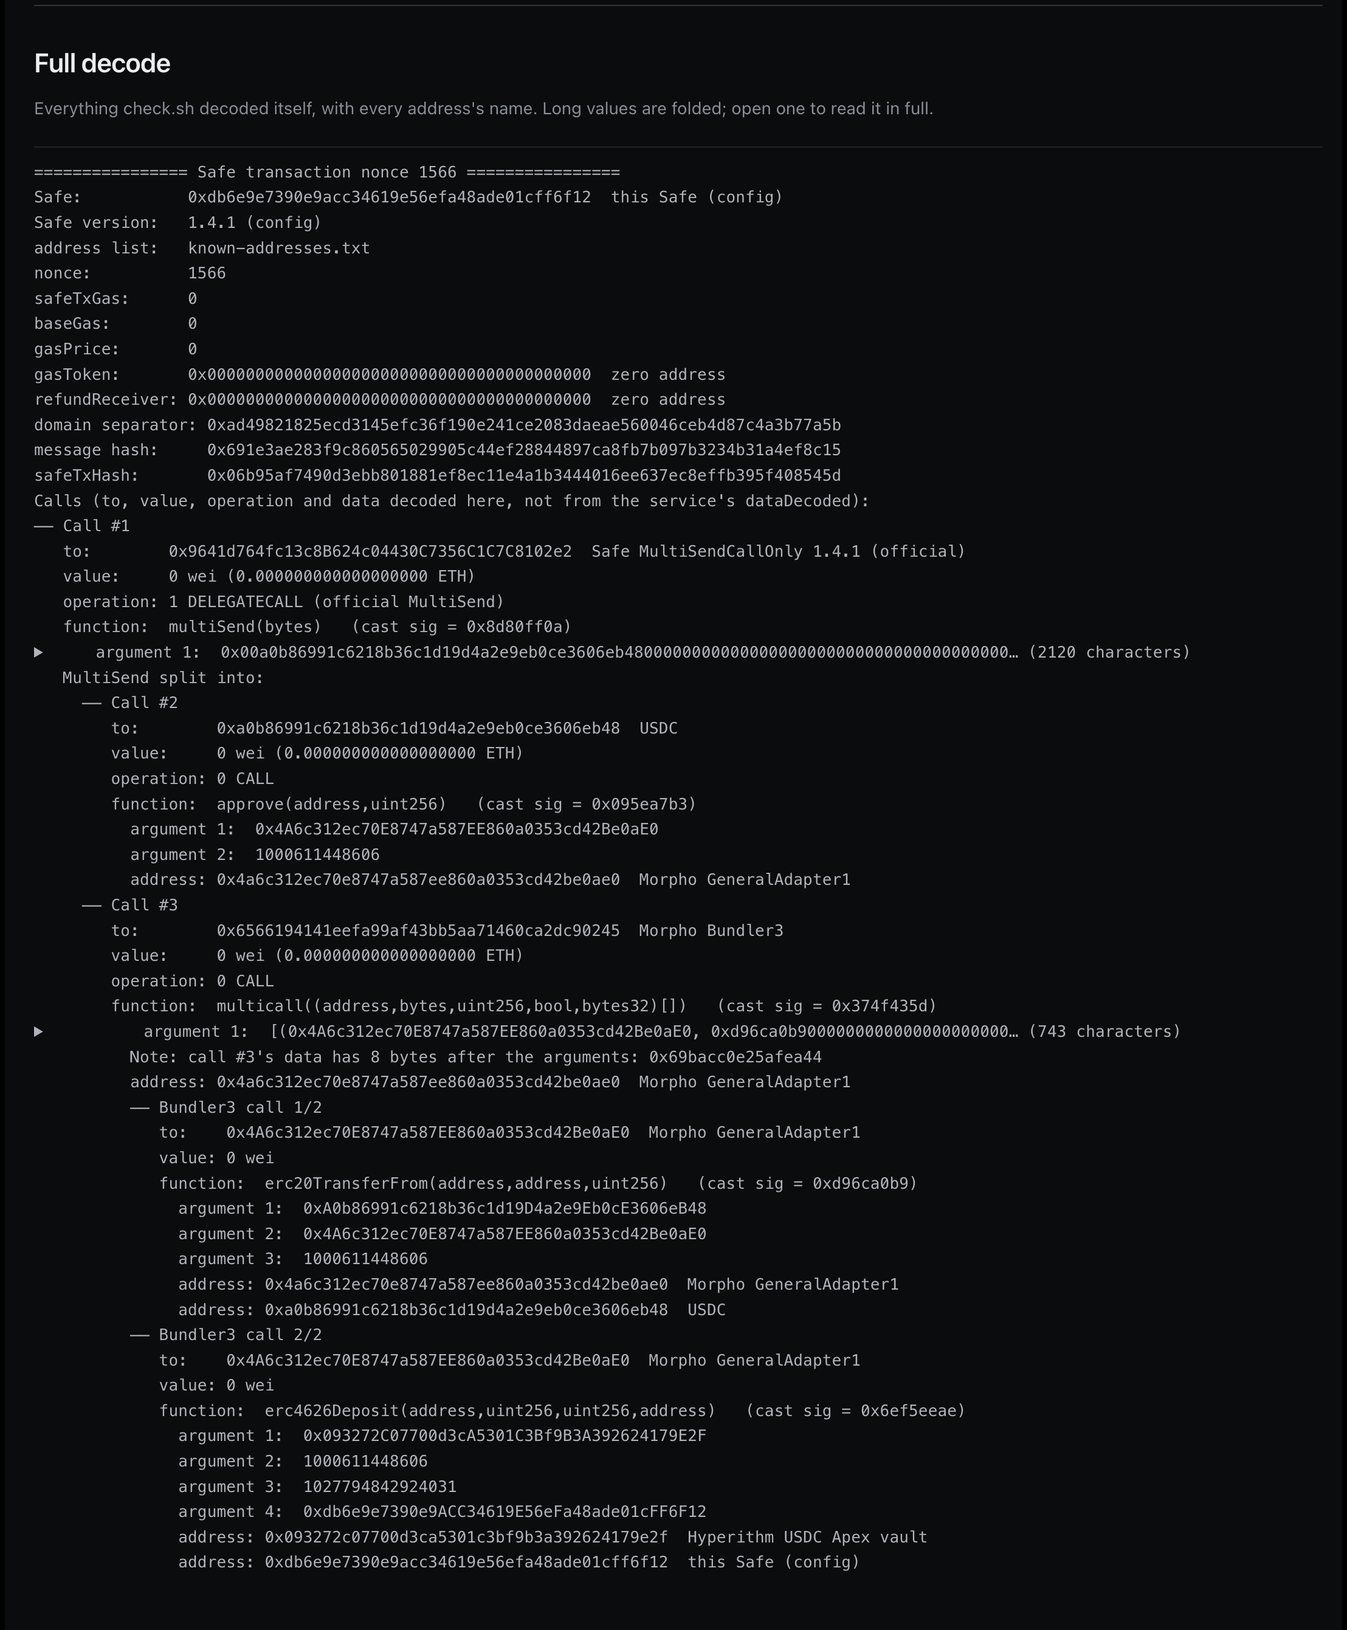
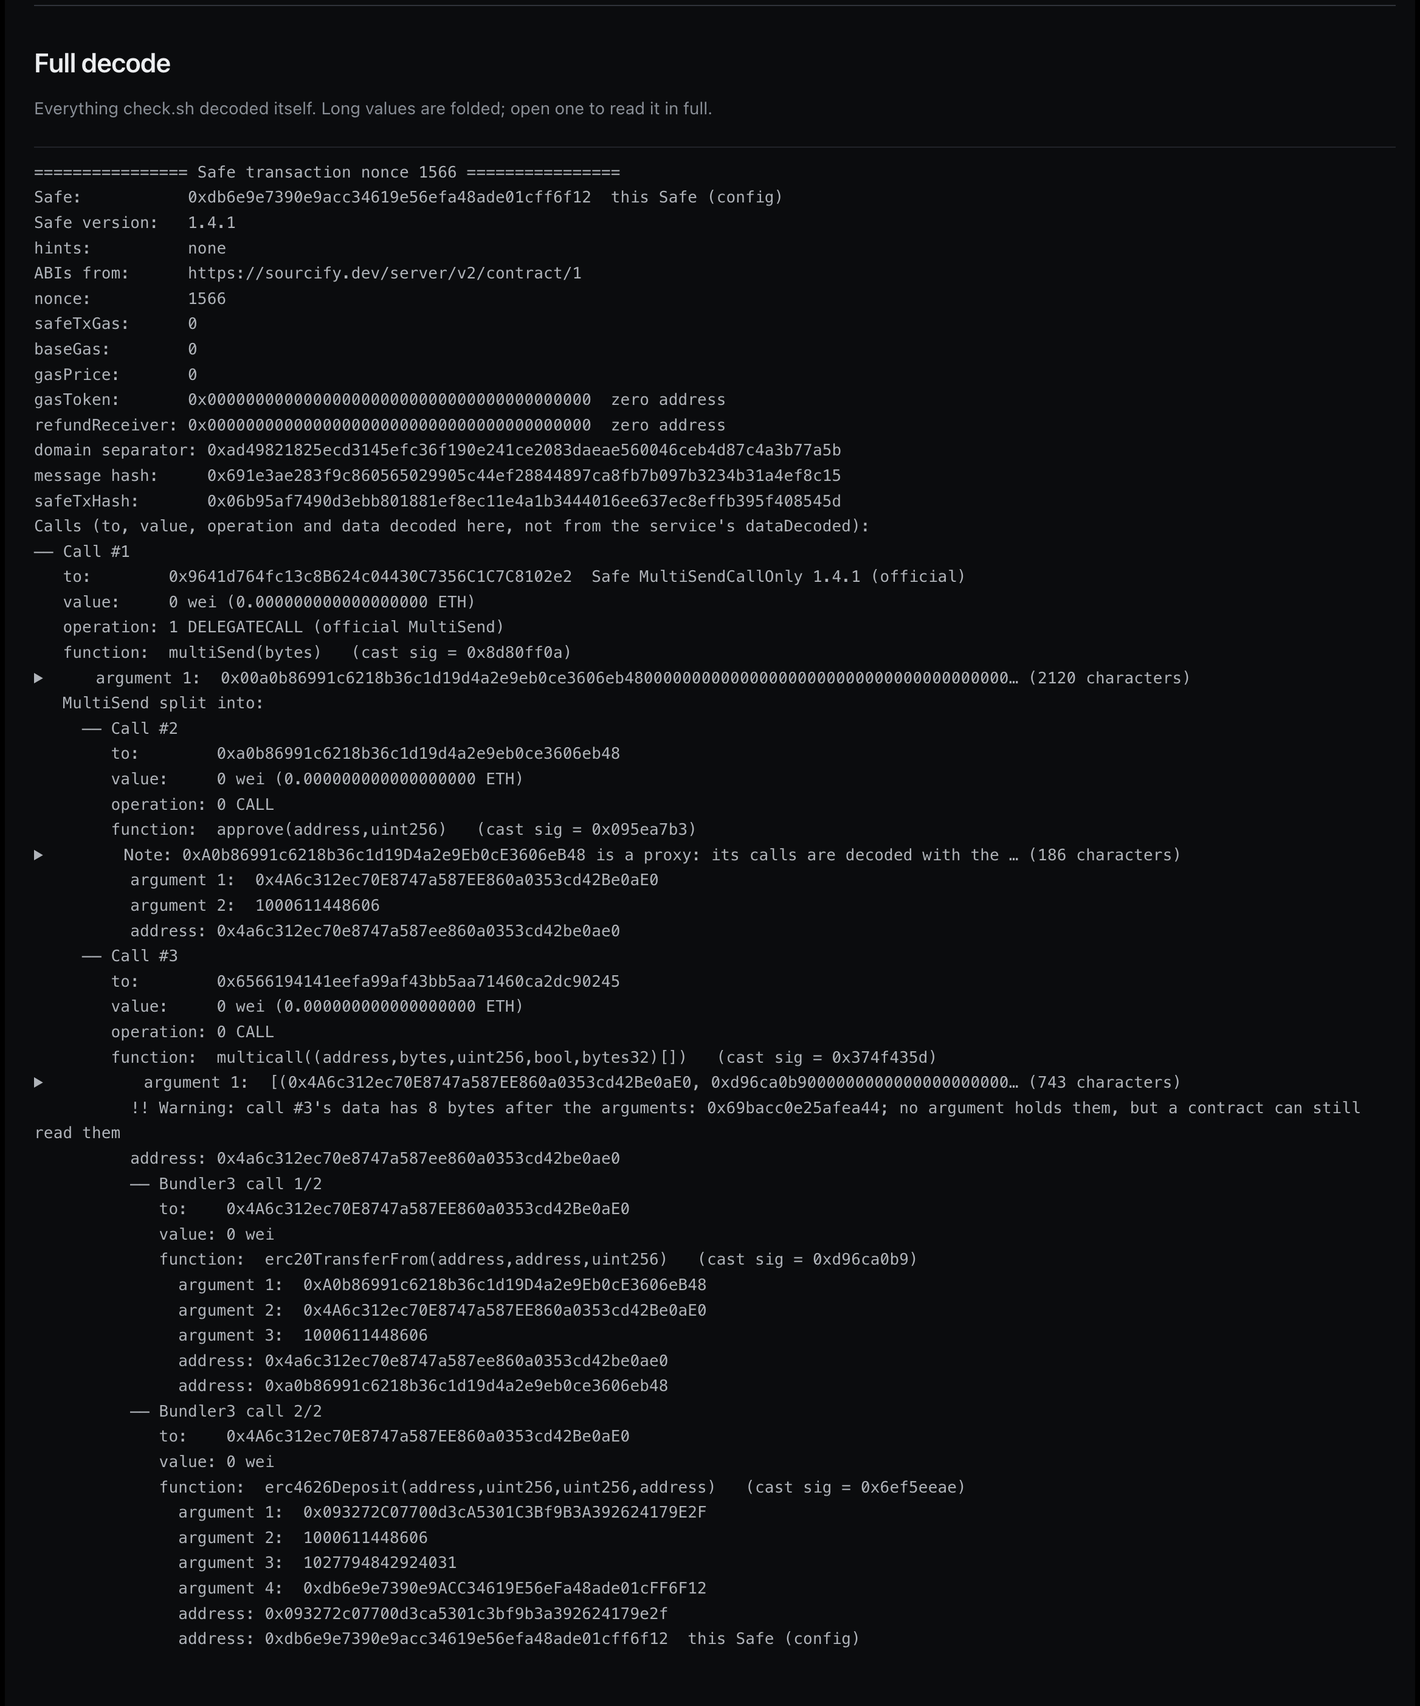
Fix the docs both reviews flagged, re-shoot the full decode, shorten Contributing and Disclaimer
check.sh's full-decode lead no longer promises every address's name.

Claude-Session: https://claude.ai/code/session_019EpkRikTD1KbjKp9L1wtSS

Changed region(s): [[0.0311, 0.0309, 0.8718, 0.9594], [0.7784, 0.3714, 0.8407, 0.4023], [0.6227, 0.8665, 0.685, 0.8975]]

diff --git a/docs/details.md b/docs/details.md
@@ -8,13 +8,13 @@ Set `LANGUAGE` to the language your kiss-sign uses, the one its `init` recorded:
 
 A wrong `SAFE_VERSION` can give a hash that does not match your wallet, and a matching hash does not prove the version is right: versions 1.3.0 to 1.5.0 hash the same way, as do 1.1.0 to 1.2.0.
 
-`CHECK_CONFIG` can name another config. `config` and `out/` are ignored by git and stay on this computer.
+`CHECK_CONFIG` can name another config, and `CHECK_OUT` another folder for the pages than `out/`. `config` and `out/` are ignored by git and stay on this computer.
 
 ## Running it
 
 The command carries `--hints` when the template reads `bytes` no ABI describes; see [hints.md](hints.md).
 
-It fetches the transactions at that nonce from `api.safe.global`, and the ABI of each contract a call goes to from `sourcify.dev`, both mainnet only and with no API key. Those are its only network requests. `./check.sh --file <tx.json>` reads the transactions from a file instead, and refuses a file whose transactions do not all share one nonce; it still asks Sourcify for the ABIs. Sourcify thus learns which contracts your pending transaction calls. If Sourcify does not answer, or answers with anything but the contract's ABI or "not verified", `check.sh` stops and writes no page; run it again later. The terminal prints a summary (here run with `CHECK_OUT=out`, so the page path is short):
+It fetches the transactions at that nonce from `api.safe.global`, and the ABI of each contract a call goes to from `sourcify.dev`, both mainnet only and with no API key. Those are its only network requests. `./check.sh --file <tx.json>` reads the transactions from a file instead, and refuses a file whose transactions do not all share one nonce. It refuses any transaction of a Safe other than the one in `config`, and, from the service, an answer that runs to a second page or holds another nonce; it still asks Sourcify for the ABIs. Sourcify thus learns which contracts your pending transaction calls. If Sourcify does not answer, or answers with anything but the contract's ABI or "not verified", `check.sh` stops and writes no page; run it again later. The terminal prints a summary (here run with `CHECK_OUT=out`, so the page path is short):
 
 ![The terminal after ./check.sh 1566: the safeTxHash, 3 calls from the Safe, a note that USDC is a proxy whose calls are decoded with the ABI of the implementation Sourcify reports, a warning that call #3 has 8 bytes after its arguments, which no argument holds but a contract can still read, and the path of the page](readme/terminal.png)
 
@@ -23,7 +23,7 @@ It fetches the transactions at that nonce from `api.safe.global`, and the ABI of
 
 The page also holds the full decode, with every call and every argument:
 
-![The check.sh page's full decode of nonce 1566: the Safe's DELEGATECALL into the official MultiSend, the USDC approve to Morpho GeneralAdapter1, and the Bundler3 multicall with its two calls, erc20TransferFrom and erc4626Deposit into the Hyperithm USDC Apex vault](readme/decode.png)
+![The check.sh page's full decode of nonce 1566: the Safe's DELEGATECALL into the official MultiSend, an approve on 0xA0b86991c6218b36c1d19D4a2e9Eb0cE3606eB48 for 0x4A6c312ec70E8747a587EE860a0353cd42Be0aE0, and a Bundler3 multicall with its two calls, erc20TransferFrom and erc4626Deposit into 0x093272C07700d3cA5301C3Bf9B3A392624179E2F; only the Safe, the zero address and the official MultiSend are named](readme/decode.png)
 
 If several transactions share the nonce, the summary and the page show each one with its hash. Sign only the one whose hashes your wallet shows.
 
@@ -40,18 +40,20 @@ Sourcify is trusted only to help you read. Each call's `function` row in the com
 ## What it checks
 
 - **The hash, computed locally.** The safeTxHash comes from the same `to`, `value`, `data`, `operation` and gas fields the decode prints. The service's own hash is used only to warn when it differs.
-- **Every call.** Each call inside a MultiSend, each call of a Bundler3 `multicall` with its target and value, each call of `multicall(bytes[])`, `submit(bytes)` and `revoke(bytes)`, and the bundle Morpho calls back with from `morphoSupplyCollateral`. A MultiSend is split into the Safe's calls only when the Safe itself DELEGATECALLs an official MultiSend, and the list must split exactly.
+- **Every call.** Each call inside a MultiSend, each call of a Bundler3 `multicall` with its target and value, each call of `multicall(bytes[])`, `submit(bytes)` and `revoke(bytes)`, and the bundle Morpho calls back with from `morphoSupplyCollateral`. A MultiSend is split into the Safe's calls only when the Safe itself DELEGATECALLs an official MultiSend; a list that does not split exactly stops the split with a warning.
 - **The decode is exact.** The decoded arguments are encoded again and compared with the data. Any difference is a warning, bytes after the arguments included: no argument holds them, but a contract can still read them. The Morpho and Uniswap apps append such a tag to their calls, so their transactions carry this warning; kiss-sign's template states how many bytes it allows.
 - **Addresses are shown, not judged.** It names only the official MultiSend addresses, built in, the Safe in your `config` and the zero address. Whether any other address is the protocol's real one is kiss-sign's check, not this one.
 - **Warnings for what usually means trouble:**
   - non-zero `safeTxGas`, `baseGas`, `gasPrice`, `gasToken` or `refundReceiver`;
   - a DELEGATECALL other than the Safe's own call into an official MultiSend, or a plain CALL into an official MultiSend;
   - a zero `to` inside a MultiSend;
+  - a `multiSend` it does not split, and a MultiSend list with leftover bytes, a bad operation byte or a length that runs past the data;
+  - a function whose data cannot be decoded, or does not encode back to the same bytes;
   - a contract Sourcify has not verified, a function its ABI lacks, or a `bytes` argument or part it cannot decode, bytes it shows as a hint reads them, a hint that does not fit, and a hint it does not use;
   - a `bytes` value of exactly 20 bytes, shown also as the address it may be, or of exactly 32 bytes, shown also as the address it may be when its first 12 bytes are zero;
   - bytes after a call's arguments;
   - ETH sent along with a call that has data, from the Safe or a MultiSend (a Bundler3 call's value is shown, not warned on);
-  - a Safe admin function anywhere, such as adding an owner;
+  - a Safe admin function anywhere, from a fixed list, such as adding an owner;
   - several transactions at one nonce;
   - a service hash that differs or is malformed.
 - **Text from outside cannot run or hide on the page.** Every value reaches the page through `jq`'s `@html`, and control, bidi and zero-width characters become U+FFFD. The terminal has its control characters removed (C0 except tab and newline, and DEL). At start it checks that `cast` and `jq` behave as it expects, and refuses to run otherwise.
@@ -75,9 +77,9 @@ Sourcify is trusted only to help you read. Each call's `function` row in the com
 
 - every real case reproduces its recorded on-chain safeTxHash;
 - the comparison lists of seven transactions, in each language, equal [`test/expected/en/`](../test/expected/en/) and [`test/expected/zh-TW/`](../test/expected/zh-TW/), which kiss-sign's own tests also pin: a Bundler3 deposit, an ETH transfer, a Merkl claim, a CoW order, a Uniswap swap with its approvals, a Vault V2 cap submission and a reallocation;
-- each runs with the `--hints` kiss-sign prints for it, kept in [`test/expected/hints/`](../test/expected/hints/) and pinned by kiss-sign's tests too, and the full decode of the five cases hints read is as expected;
-- the comparison list is the same with kiss-sign's hints, with hostile hints that fit and that do not, and with none;
-- bytes a hint reads always keep a warning, a hint that does not fit or names nothing says why, and malformed hints are refused before anything runs;
+- each runs with the `--hints` kiss-sign prints for it, kept in [`test/expected/hints/`](../test/expected/hints/) and pinned by kiss-sign's tests too (empty where kiss-sign prints none), and the full decode of the five cases hints read is as expected (the crafted cap-id case's hints are in `test/run.sh`);
+- for selected cases, the comparison list is the same with kiss-sign's hints, with hostile hints that fit and that do not, and with none;
+- bytes a hint reads always keep a warning, a hint that does not fit or names nothing says why, and malformed hints are refused before the transaction is decoded;
 - hostile text in the service's fields is never shown as markup, and its bidi and control characters are replaced.
 
 The tests read no network. [`test/sourcify/`](../test/sourcify/) holds Sourcify's answer for every contract `check.sh` asks about while it decodes the fixtures, named `<address>.<HTTP status>.json`, and `CHECK_SOURCIFY_DIR` makes `check.sh` read them instead of asking Sourcify. `/bin/bash test/record-sourcify.sh` records them again, by running `check.sh` on every fixture with `CHECK_SOURCIFY_SAVE`, which saves each answer it gets.

diff --git a/docs/hints.md b/docs/hints.md
@@ -10,15 +10,15 @@ The hints are one argument: `v1`, then one entry per `bytes` value, each after o
 v1 C4-a2.1=abi(bytes,bytes[]) C4-a2.1.2.1=abi((address,(address,uint24,int24,address,bytes)[],uint256[],uint128,uint128)) C4-a2.1.2.2=abi(address,uint256,bool) C4-a2.1.2.3=abi(address,address,uint256)
 ```
 
-`C4-a2.1` is the router's first input, a `V4_SWAP`, and `C4-a2.1.2.1` to `.3` are its swap, settle and take. The hints hold only positions and types: no names, text, addresses, URLs or file paths. `check.sh` refuses, before it decodes anything or writes a page, hints in any other shape, such as another version, a character other than letters, digits, space, `()[],.=-`, an empty or unknown type, a `packed` type that is not fixed-size, or a path given twice.
+`C4-a2.1` is the router's first input, a `V4_SWAP`, and `C4-a2.1.2.1` to `.3` are its swap, settle and take. The hints hold only positions and types: no names, text, addresses, URLs or file paths. `check.sh` refuses, before it decodes the transaction or writes a page, hints in any other shape, such as another version, a character other than letters, digits, space, `()[],.=-`, an empty or unknown type, a `packed` type that is not fixed-size, or a path given twice.
 
 The hints come from the work computer, the one this computer exists not to trust, so they can only help you read:
 
-- **No comparison-list row comes from a hint.** Every row is decoded from the transaction with Sourcify's ABI as without hints, and bytes a hint reads stay one row, folded with their keccak256. The tests run every pinned transaction with kiss-sign's hints, with hostile hints and with none, and require the same list.
+- **No comparison-list row comes from a hint.** Every row is decoded from the transaction with Sourcify's ABI as without hints, and bytes a hint reads stay inside their argument's row, folded with their keccak256 when longer than 32 bytes. The tests run every pinned transaction with kiss-sign's hints, with hostile hints and with none, and require the same list.
 - **A reading is shown only if it encodes back.** The parts, encoded again with `cast abi-encode` (or `--packed`), must give exactly the original bytes. Otherwise the bytes stay raw with their warning, and a second warning says why the hint did not fit.
-- **A reading that fits keeps a warning.** Any bytes whose length is a multiple of 32 also fit as that many `uint256`, which would show a hidden call or address as numbers, and a `packed` hint can cut an address into two parts. So bytes a hint reads always carry a warning, in place of the one that says they cannot be decoded, that they are shown as the hint reads them. A hint adds lines to the full decode; it never changes a row, and never leaves the bytes it reads without a warning. A `bytes` part no hint reads warns as before.
+- **A reading that fits keeps a warning.** Any bytes whose length is a multiple of 32 also fit as that many `uint256`, which would show a hidden call or address as numbers, and a `packed` hint can cut an address into two parts. So bytes a hint reads always carry a warning, in place of the one that says they cannot be decoded, that they are shown as the hint reads them. A part read inside them is covered by that same warning. A hint adds lines to the full decode; it never changes a row, and never leaves the bytes it reads without a warning. A `bytes` part no hint reads warns as before.
 - **A hint that names nothing is a warning.** An entry whose path holds no `bytes` in this transaction, or names bytes `check.sh` decodes as calls, is not used, and says so.
 
-Each of these warnings, like the one for bytes no hint reads, names the function and contract the bytes go to and where to read the contract's verified source.
+The warning that bytes are shown as a hint reads them, like the one for bytes no hint reads, names the function and contract the bytes go to and where to read the contract's verified source. A hint that does not fit leaves that second warning in place; a hint not used names only its path.
 
 So a wrong or hostile hint leaves the bytes raw with a warning, or shows a reading of them under a warning. The rows, the hashes and every other warning are what `check.sh` finds on its own. Read the parts against what you meant to do; a reading that fits is not a judgment.

diff --git a/README.md b/README.md
@@ -45,7 +45,7 @@ Open the page it writes and check three things.
 
 ![The hash rows of both pages side by side: safeTxHash, domain hash and message hash, the same on kiss-sign verify and on check.sh](docs/readme/compare-hashes.png)
 
-**2. The comparison list.** Every call, row by row, down to the calls inside a batch, must be the same as on kiss-sign's page. Only the name column on the right may differ: kiss-sign names addresses from its registry, `check.sh` names only your Safe, the official MultiSends and the zero address. If any other row differs, stop.
+**2. The comparison list.** Every call, row by row, down to the calls inside a batch, must be the same as on kiss-sign's page. Only the name column on the right may differ: kiss-sign names addresses from its registry, while `check.sh` names only your Safe, the official MultiSends and the zero address, and adds a few notes of its own. If any other row differs, stop.
 
 ![Some rows of call #3 on both pages side by side: the Bundler3 multicall, then its two inner calls, erc20TransferFrom of 1000611448606 and erc4626Deposit into vault 0x093272C07700d3cA5301C3Bf9B3A392624179E2F for the Safe, the same on both sides; only kiss-sign's side names the vault and the amounts in the last column](docs/readme/compare-multicall.png)
 
@@ -59,7 +59,7 @@ Some `bytes` hold data in a fixed shape that no ABI describes, such as a CoW ord
 ./check.sh 264 --hints 'v1 C1-a1=packed(bytes32,address,uint32)'
 ```
 
-This says: argument 1 of call `C1` is a `bytes32`, an `address` and a `uint32` packed together. `check.sh` splits the 56 bytes that way, checks the parts join back into exactly those bytes, and shows them under a warning:
+This says: argument 1 of call `C1` is a `bytes32`, an `address` and a `uint32` packed together. `check.sh` splits the 56 bytes that way, checks the parts join back into exactly those bytes, and shows them under a warning. An excerpt of the page's full decode:
 
 ```
 function:  setPreSignature(bytes,bool)
@@ -81,15 +81,11 @@ Here part 2 is the order's owner, your Safe, and part 3 its expiry time. A hint 
 
 ## Contributing
 
-Open an issue or a pull request. Keep `check.sh` short enough to read in one sitting, and keep it to `cast`, `curl` and `jq`. The details of how it works are in [`docs/`](docs/): [details.md](docs/details.md) for every setting, check and test, [hints.md](docs/hints.md) for the `--hints` format, and [checklist.md](docs/checklist.md) for the comparison list's rows. A change to the comparison list's format must change kiss-sign in step; see [docs/checklist.md](docs/checklist.md).
-
-Report security problems as an issue too.
+Issues, security problems included, and pull requests are welcome. Keep `check.sh` to `cast`, `curl` and `jq`, short enough to read in one sitting. How it works is in [`docs/`](docs/); a change to the comparison list must change kiss-sign too.
 
 ## Disclaimer
 
-`check.sh` is provided as is, without warranty of any kind. It can be wrong: a bug, a compromised Safe Transaction Service or a compromised second computer can make it show rows that match a transaction you did not mean. Matching rows say only that two programs decoded the same bytes the same way. They do not say that a protocol, a contract or a transaction is safe, and nothing here is financial, legal or security advice.
-
-You alone are responsible for every transaction you sign. The authors and contributors are not liable for any loss, however it arises, including through the use of kiss-sign or kiss-sign-check.
+`check.sh` is provided as is, with no warranty, and can be wrong. Matching rows mean only that two programs decoded the same bytes the same way, not that a transaction is safe. You alone are responsible for what you sign.
 
 ## Donate
 

diff --git a/docs/checklist.md b/docs/checklist.md
@@ -4,7 +4,7 @@ kiss-sign `verify` (after `MATCH`) and `check.sh` write the same block, so the t
 
 For the same transaction, decoded the same way and in the same language, both write it byte for byte the same except the name column. [`test/expected/en/`](../test/expected/en/) and [`test/expected/zh-TW/`](../test/expected/zh-TW/) pin it, in each language, for seven recorded transactions of other Safes: a Bundler3 deposit through MultiSend, an ETH transfer, a Merkl claim, a CoW pre-signed order, a Uniswap swap through MultiSend with its two approvals, a Morpho Vault V2 cap submission and a Vault V2 reallocation; kiss-sign's tests compare their own block with a copy of each file, so a format change fails one side until both change (kiss-sign keeps its copies in `testdata/checklist/`). kiss-sign's `docs/design.md` (The 比對清單) holds the same rules.
 
-The block is one HTML line per line, between `<!-- 比對清單 -->` and `<!-- /比對清單 -->`, inside `<div class="cl">`. A group line, `<div class="g"><span class="id">ID</span><span>TITLE</span></div>`, heads each call. Every other line is a row, `<div class="r"><span class="id">ID</span><span class="k">KEY</span><span class="v">VALUE</span><span class="nm">NAME</span></div>`. NAME is each program's own name or note for the value: here only the official MultiSend, the Safe and the zero address; in kiss-sign from its registry or address book, or a note on a number the card bounds (an amount in whole tokens, a percent, or which bound a share price is), and on an `-extra` row the template's rule and its reason. It is not compared; compare the addresses.
+The block is one HTML line per line, between `<!-- 比對清單 -->` and `<!-- /比對清單 -->`, inside `<div class="cl">`. A group line, `<div class="g"><span class="id">ID</span><span>TITLE</span></div>`, heads each call. Every other line is a row, `<div class="r"><span class="id">ID</span><span class="k">KEY</span><span class="v">VALUE</span><span class="nm">NAME</span></div>`. NAME is each program's own name or note for the value: here the official MultiSends, the Safe and the zero address, `compare with the hardware wallet` on the three hash rows, and on a raw `-data` row why it is raw; in kiss-sign from its registry or address book, or a note on a number the card bounds (an amount in whole tokens, a percent, or which bound a share price is), and on an `-extra` row the template's rule and its reason. It is not compared; compare the addresses.
 
 Row IDs never change. Group titles, keys, the VALUE of an empty `-data` and the words of a folded value come from one table per language in `check.sh`, which kiss-sign carries word for word:
 
